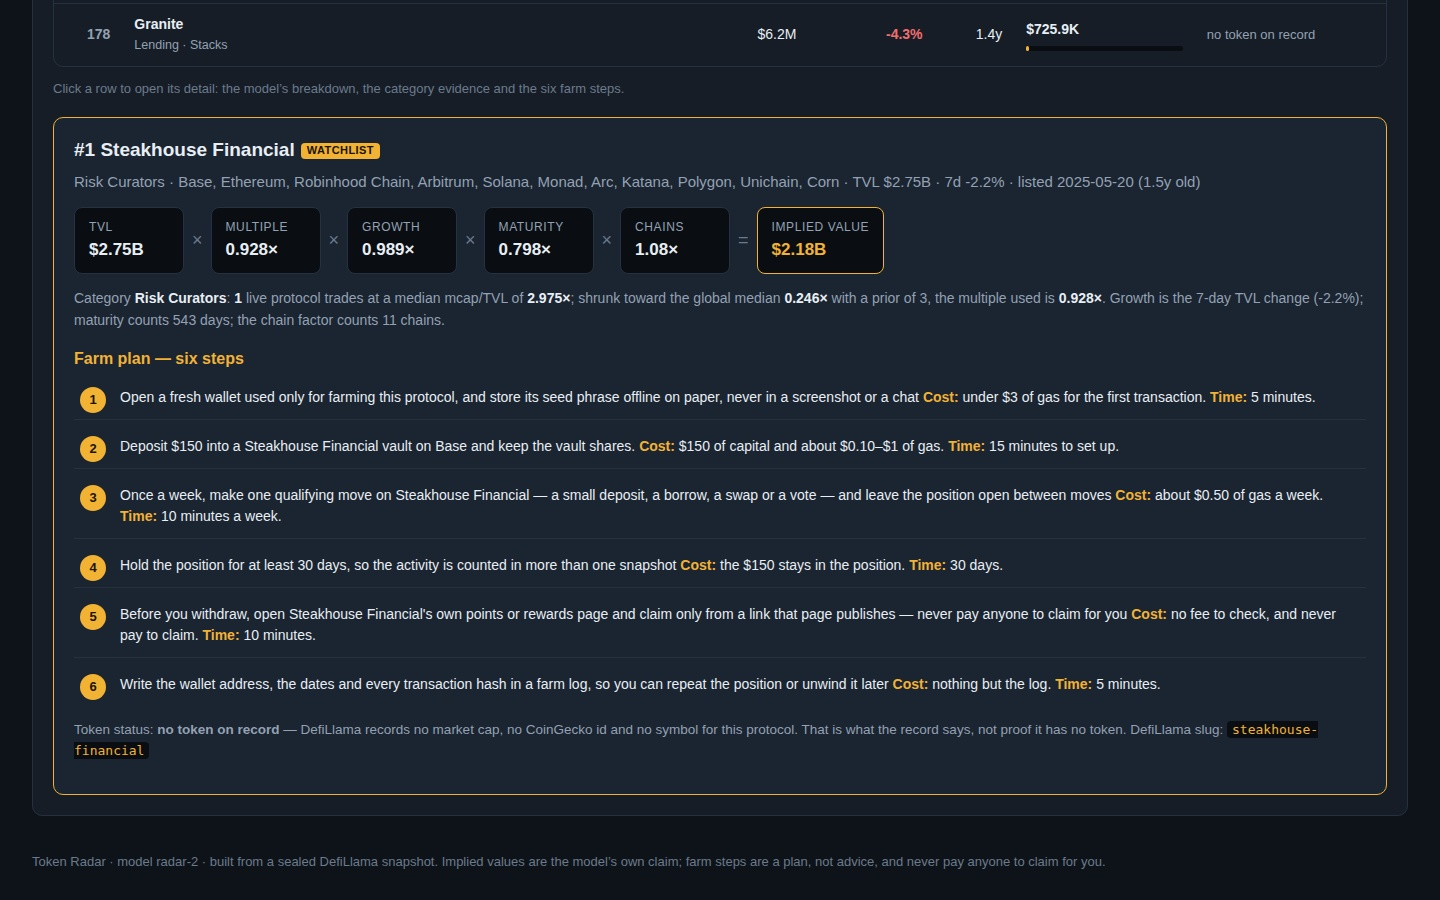
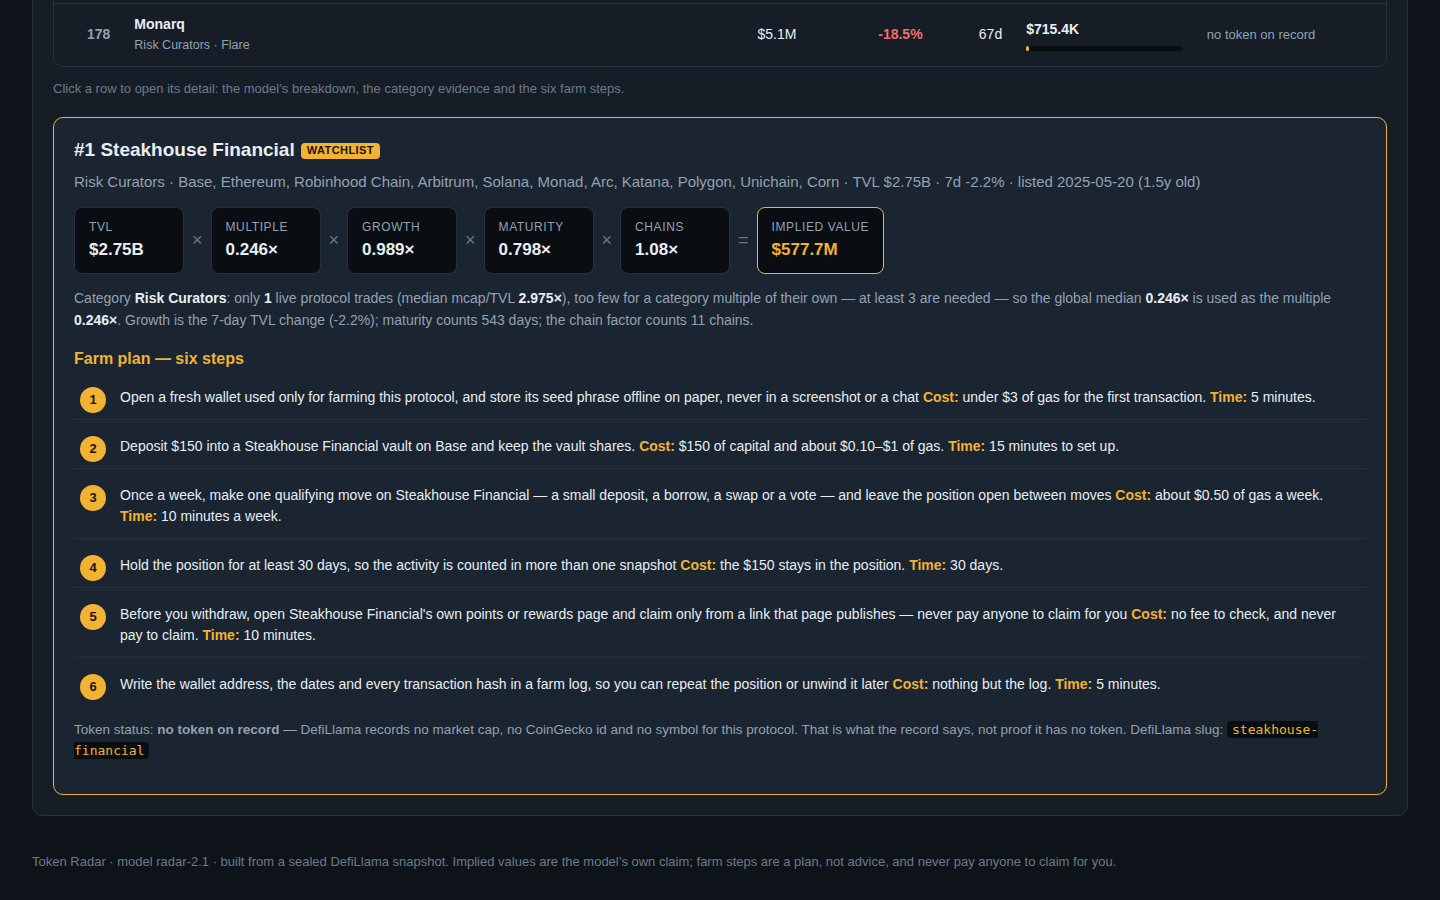
radar-2.1: category multiple needs n>=3 live comparables
A single live protocol no longer sets a whole category's multiple:
categories with fewer than 3 live comparables now take the global
median (0.246x) instead of a shrunk single-protocol median. Risk
Curators (n=1, Api3 2.975x) drops from 0.928x to 0.246x, so
Steakhouse Financial falls from $2.18B to $578M implied and
Gauntlet from $1.3B to $344M. Shrinkage prior-3 still applies at
n>=3. Methodology (dashboard + README), Live-tab note on raw ratios
vs medians (Rain ~400x), and all three screenshots re-rendered.

diff --git a/lib/model.ts b/lib/model.ts
@@ -1,4 +1,4 @@
-// radar-2: the token launch radar's model.
+// radar-2.1: the token launch radar's model.
 //
 // One sealed snapshot in, one ranked board out. Every number the model uses comes from the
 // snapshot itself: the category multiples are measured at run time from the protocols whose
@@ -8,11 +8,13 @@
 //                 not CEX, and its TVL is positive. (A recorded market cap of exactly zero is
 //                 not a traded token with a price, so it does not count as a comparable.)
 //   ratio         mcap_usd / tvl_usd, the market's own price for one dollar of TVL.
-//   multiple      for a category, the median ratio of its live protocols, shrunk toward the
-//                 global median with a prior of three: (n * median + 3 * global) / (n + 3),
-//                 then clamped to [0.02, 1.0]. A category with no live protocol takes the
-//                 global median. Thin categories are pulled toward the market average; thick
-//                 ones stand on their own evidence.
+//   multiple      for a category with at least 3 live protocols, the median ratio of its live
+//                 protocols, shrunk toward the global median with a prior of three:
+//                 (n * median + 3 * global) / (n + 3), then clamped to [0.02, 1.0]. A category
+//                 with fewer than 3 live protocols takes the global median instead: one or two
+//                 comparables are not enough evidence for a category multiple of their own, so
+//                 a single small protocol cannot set the value of a whole category. A category
+//                 with no live protocol takes the global median as well.
 //   growth        change_7d clamped to [-50, 100]; growthMult = 1 + (growth / 100) * 0.5.
 //   maturity      age in days from listed_at to as_of (unknown: 365);
 //                 maturityMult = 0.6 + min(age, 1095) / 1095 * 0.4.
@@ -48,11 +50,12 @@ export interface Snapshot {
 }
 
 /** The model's label, shown on the dashboard and in the data file. */
-export const MODEL_VERSION = 'radar-2';
+export const MODEL_VERSION = 'radar-2.1';
 
 /** The model's constants: every one of them is stated on the dashboard's Methodology tab. */
 export const MODEL = {
   shrink_prior: 3,
+  min_category_live: 3,
   multiple_min: 0.02,
   multiple_max: 1.0,
   growth_weight: 0.5,
@@ -191,8 +194,16 @@ export function measureMultiples(snapshot: Snapshot): Multiples {
     .map(([category, rs]) => {
       const med = median(rs);
       const n = rs.length;
-      const shrunk = (n * med + MODEL.shrink_prior * global) / (n + MODEL.shrink_prior);
-      const multiple = Math.min(MODEL.multiple_max, Math.max(MODEL.multiple_min, shrunk));
+      // A category multiple needs at least three live comparables: with one or two, a single
+      // protocol's ratio would set the value of a whole category, so the global median is
+      // used instead. At n >= 3 the median is shrunk toward the global median as before.
+      const multiple =
+        n < MODEL.min_category_live
+          ? Math.min(MODEL.multiple_max, Math.max(MODEL.multiple_min, global))
+          : Math.min(
+              MODEL.multiple_max,
+              Math.max(MODEL.multiple_min, (n * med + MODEL.shrink_prior * global) / (n + MODEL.shrink_prior)),
+            );
       return { category, live_n: n, live_median: round4(med), multiple: round4(multiple) };
     })
     .sort((a, b) => (a.category < b.category ? -1 : a.category > b.category ? 1 : 0));

diff --git a/dashboard/index.html b/dashboard/index.html
@@ -16,7 +16,7 @@
     </div>
   </div>
   <div class="meta">
-    <span class="pill">model <b>radar-2</b></span>
+    <span class="pill">model <b>radar-2.1</b></span>
     <span class="pill">snapshot <b id="meta-asof">—</b></span>
     <span class="pill">source <b>DefiLlama</b></span>
   </div>
@@ -60,7 +60,9 @@
   <section id="panel-live" class="panel" hidden>
     <p class="intro">These protocols already have a token that trades, so the board never ranks them. Their
     market-cap-to-TVL ratios are the evidence the model&rsquo;s category multiples are measured from —
-    the market&rsquo;s own price for one dollar of TVL.</p>
+    the market&rsquo;s own price for one dollar of TVL. The ratios shown are the raw figures exactly
+    as recorded in the DefiLlama snapshot; the model works from medians, so a single extreme value
+    cannot move a multiple on its own — Rain&rsquo;s ratio is about 400&times;, and the medians barely notice it.</p>
     <div class="tablewrap">
       <table id="live">
         <thead>
@@ -79,9 +81,12 @@
     <h3>The formula</h3>
     <p class="formula">implied&nbsp;=&nbsp;TVL&nbsp;&times;&nbsp;category&nbsp;multiple&nbsp;&times;&nbsp;growth&nbsp;&times;&nbsp;maturity&nbsp;&times;&nbsp;chain</p>
     <ul>
-      <li><b>Category multiple.</b> For each category, the median mcap/TVL ratio of the live protocols
-      in it, shrunk toward the global median with a prior of 3: <code>(n &times; median + 3 &times; global) / (n + 3)</code>,
-      clamped to [0.02, 1.0]. A category with no live protocol takes the global median.</li>
+      <li><b>Category multiple.</b> A category gets its own multiple only when at least 3 live
+      protocols in it trade: the median mcap/TVL ratio of its live protocols, shrunk toward the
+      global median with a prior of 3: <code>(n &times; median + 3 &times; global) / (n + 3)</code>,
+      clamped to [0.02, 1.0]. A category with fewer than 3 live protocols — or none — takes the
+      global median instead: one or two comparables are not enough evidence for a multiple of
+      their own, so a single small protocol cannot set the value of a whole category.</li>
       <li><b>Growth.</b> 7-day TVL change, clamped to [−50%, +100%]; multiplier <code>1 + (growth / 100) &times; 0.5</code>.</li>
       <li><b>Maturity.</b> Days from <code>listed_at</code> to the snapshot date (365 when unknown);
       multiplier <code>0.6 + min(age, 1095) / 1095 &times; 0.4</code>.</li>
@@ -110,7 +115,7 @@
 </main>
 
 <footer>
-  <p>Token Radar · model radar-2 · built from a sealed DefiLlama snapshot. Implied values are the model&rsquo;s
+  <p>Token Radar · model radar-2.1 · built from a sealed DefiLlama snapshot. Implied values are the model&rsquo;s
   own claim; farm steps are a plan, not advice, and never pay anyone to claim for you.</p>
 </footer>
 <script src="../data.js"></script>

diff --git a/dashboard/app.js b/dashboard/app.js
@@ -48,7 +48,7 @@
 
   /* ---- header stats ---- */
   $('meta-asof').textContent = R.as_of;
-  $('source-line').textContent = 'Snapshot: ' + R.source + ' · Floor: ' + fmtMoney(R.floor_usd) + ' · Model radar-2.';
+  $('source-line').textContent = 'Snapshot: ' + R.source + ' · Floor: ' + fmtMoney(R.floor_usd) + ' · Model ' + R.model_version + '.';
   var stats = [
     { n: R.watchlist_size + '/' + R.watchlist_size, l: 'watchlist protocols covered' },
     { n: String(R.board_size), l: 'rows on the board (' + R.watchlist_size + ' watchlist + ' + R.early_size + ' early)' },
@@ -124,7 +124,13 @@
     var mult = null;
     R.multiples.by_category.forEach(function (e) { if (e.category === (r.category || 'Uncategorized')) mult = e; });
     var ev;
-    if (mult) {
+    if (mult && mult.live_n < 3) {
+      ev = 'Category <b>' + esc(r.category || 'Uncategorized') + '</b>: only <b>' + mult.live_n + '</b> live protocol' +
+        (mult.live_n === 1 ? ' trades' : 's trade') + ' (median mcap/TVL <b>' + dec(mult.live_median, 3) +
+        '×</b>), too few for a category multiple of their own — at least 3 are needed — so the ' +
+        'global median <b>' + dec(R.multiples.global_median, 3) + '×</b> is used as the multiple <b>' +
+        dec(m.category_multiple, 3) + '×</b>.';
+    } else if (mult) {
       ev = 'Category <b>' + esc(r.category || 'Uncategorized') + '</b>: <b>' + mult.live_n + '</b> live protocol' +
         (mult.live_n === 1 ? ' trades' : 's trade') + ' at a median mcap/TVL of <b>' + dec(mult.live_median, 3) +
         '×</b>; shrunk toward the global median <b>' + dec(R.multiples.global_median, 3) + '×</b> with a prior of 3, ' +

diff --git a/main.ts b/main.ts
@@ -1,6 +1,6 @@
 // token-radar-01 entry (Node 22, standard library only).
 //
-// main.ts reads the sealed snapshot, scores every pre-token protocol with the radar-2
+// main.ts reads the sealed snapshot, scores every pre-token protocol with the radar-2.1
 // model in lib/model.ts, writes the ranked board to /output/board.json, writes the
 // dashboard's data to /output/data.js, copies dashboard/ and screenshots/ to /output,
 // and writes /output/dossier.json with the vendored make.fun library.

diff --git a/README.md b/README.md
@@ -14,14 +14,18 @@ Node 22, standard library only. `main.ts` reads the sealed snapshot, writes
 `board.json` and `data.js`, copies `dashboard/` and `screenshots/`, and writes
 `dossier.json` with the vendored `vendor/makefun-board.ts` library.
 
-## The model (radar-2)
+## The model (radar-2.1)
 
 - **Live set.** Protocols whose token already trades (positive market cap, not a
   CEX) are the comparables. Their mcap/TVL ratios are the market's own price for
   one dollar of TVL.
-- **Category multiple.** Per category, the median live ratio, shrunk toward the
-  global median with a prior of 3: `(n·median + 3·global) / (n + 3)`, clamped to
-  [0.02, 1.0]. Measured from the snapshot at run time — no name is hardcoded.
+- **Category multiple.** A category gets its own multiple only when at least 3
+  live protocols in it trade: the median live ratio, shrunk toward the global
+  median with a prior of 3: `(n·median + 3·global) / (n + 3)`, clamped to
+  [0.02, 1.0]. With fewer than 3 live protocols — or none — the category takes
+  the global median: one or two comparables are not enough evidence for a
+  multiple of their own. Measured from the snapshot at run time — no name is
+  hardcoded.
 - **Growth.** 7-day TVL change clamped to [−50%, +100%]; multiplier
   `1 + (growth/100)·0.5`.
 - **Maturity.** `0.6 + min(age, 1095)/1095·0.4`, age from `listed_at` (365 when
@@ -32,7 +36,9 @@ Node 22, standard library only. `main.ts` reads the sealed snapshot, writes
 The board covers the whole 40-protocol watchlist plus every pre-token protocol
 below the $50M floor that passes the watchlist's own exclusion rules
 (178 rows). Live-token protocols are never ranked; they appear on the Live tab
-as the evidence the multiples come from.
+as the evidence the multiples come from. The Live tab shows the raw ratios
+exactly as recorded in the snapshot; the model works from medians, so one
+extreme value (Rain, about 400×) cannot move a multiple on its own.
 
 ## The dashboard
 
